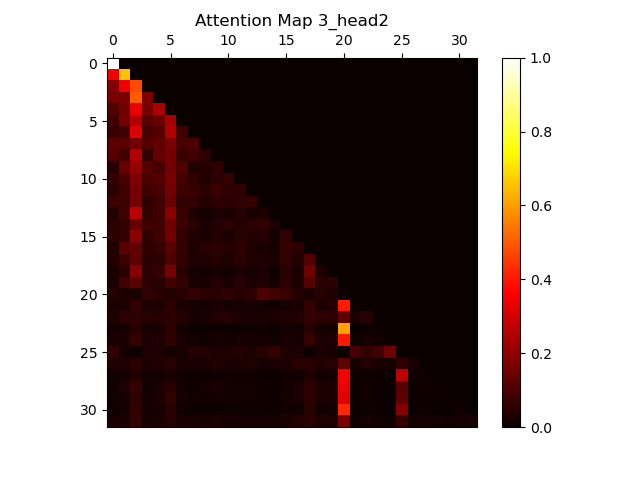
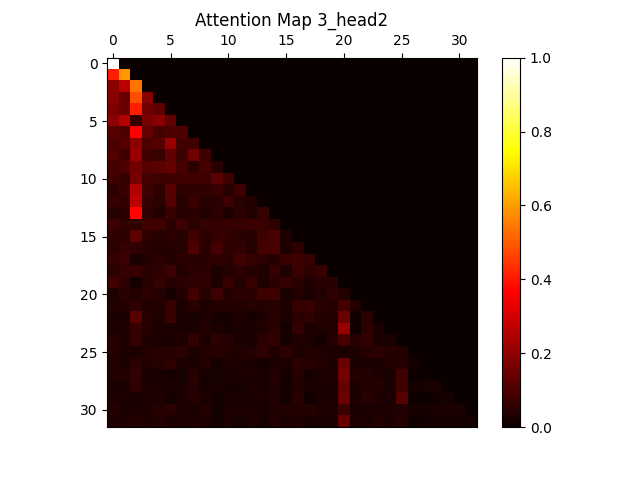
part 2 completed, needs AliBi

diff --git a/main.py b/main.py
@@ -156,6 +156,35 @@ def compute_perplexity(decoderLMmodel, data_loader, eval_iters=100):
     decoderLMmodel.train()
     return perplexity
 
+def compute_perplexity_dev(decoderLMmodel, data_loader, criterion, eval_iters=100):
+    """ Compute the perplexity of the decoderLMmodel on the data in data_loader.
+    """
+    decoderLMmodel.eval()
+    losses = []
+    
+    for i, (X, Y) in enumerate(data_loader):
+        if i >= eval_iters:  # Limit evaluation to a fixed number of iterations
+            break
+        
+        X, Y = X.to(device), Y.to(device)
+        trg_mask = create_target_mask(X)  # Create the target mask for the current batch
+        
+        # Forward pass through the model to get outputs
+        outputs = decoderLMmodel(X, trg_mask=trg_mask)  # Shape: (batch_size, seq_length, vocab_size)
+
+        # Reshape outputs and targets for calculating loss
+        loss = criterion(outputs.view(-1, outputs.size(-1)), Y.view(-1))
+        
+        # Append the loss for this batch to the list
+        losses.append(loss.item())
+    
+    # Calculate mean loss and perplexity
+    mean_loss = sum(losses) / len(losses)
+    perplexity = torch.exp(torch.tensor(mean_loss)).item()  # Calculate perplexity as exp(mean loss)
+
+    decoderLMmodel.train()  # Switch back to training mode
+    return perplexity
+
 def main(part):
 
     print("Loading data and creating tokenizer ...")
@@ -197,9 +226,28 @@ def main(part):
             lmtrainText = f.read()
         train_LM_dataset = LanguageModelingDataset(tokenizer, lmtrainText,  block_size)
         train_LM_loader = DataLoader(train_LM_dataset, batch_size=batch_size, shuffle=True)
+        
+        obamafile = "speechesdataset/test_LM_obama.txt"
+        with open(obamafile, 'r', encoding='utf-8') as f:
+            lmobamaText = f.read()
+        obama_LM_dataset = LanguageModelingDataset(tokenizer, lmobamaText, block_size)
+        obama_LM_loader = DataLoader(obama_LM_dataset, batch_size=batch_size, shuffle=True)
+
+        hbushfile = "speechesdataset/test_LM_hbush.txt"
+        with open(hbushfile, 'r', encoding='utf-8') as f:
+            lmhbushText = f.read()
+        hbush_LM_dataset = LanguageModelingDataset(tokenizer, lmhbushText, block_size)
+        hbush_LM_loader = DataLoader(hbush_LM_dataset, batch_size=batch_size, shuffle=True)
+
+        wbushfile = "speechesdataset/test_LM_wbush.txt"
+        with open(wbushfile, 'r', encoding='utf-8') as f:
+            lmwbushText = f.read()
+        wbush_LM_dataset = LanguageModelingDataset(tokenizer, lmwbushText, block_size)
+        wbush_LM_loader = DataLoader(wbush_LM_dataset, batch_size=batch_size, shuffle=True)
+
         vocab_size = tokenizer.vocab_size
         decoder = TransformerDecoder(vocab_size=vocab_size, embed_size=n_embd, num_layers=n_layer, num_heads=n_head, 
-                                     ff_hidden_dim=n_hidden, dropout=0.1, max_length=block_size).to(device)
+                                     ff_hidden_dim=n_hidden, dropout=0.04, max_length=block_size).to(device)
         optimizer = torch.optim.Adam(decoder.parameters(), lr=learning_rate)
         criterion = nn.CrossEntropyLoss()
         print("Starting decoder pretraining on language modeling task...")
@@ -230,8 +278,15 @@ def main(part):
             # Print training progress and evaluate perplexity at intervals
             if (i + 1) % eval_interval == 0 or i == max_iters - 1:
                 avg_loss = sum(train_losses[-eval_interval:]) / len(train_losses[-eval_interval:])
-                perplexity = torch.exp(torch.tensor(avg_loss))
-                print(f"Iteration {i + 1}/{max_iters} - Training Loss: {avg_loss:.4f} - Perplexity: {perplexity:.2f}")
+                current_loss = train_losses[-1]
+                perplexity = compute_perplexity_dev(decoder, train_LM_loader, criterion, eval_iters=eval_iters)
+                print(f"Iteration {i + 1}/{max_iters} - Training Loss: {current_loss:.4f} - Perplexity: {perplexity:.2f}")
+        final_perplexity = compute_perplexity_dev(decoder, train_LM_loader, criterion, eval_iters=eval_iters)
+        obama_perplexity = compute_perplexity_dev(decoder, obama_LM_loader, criterion, eval_iters=eval_iters)
+        hbush_perplexity = compute_perplexity_dev(decoder, hbush_LM_loader, criterion, eval_iters=eval_iters)
+        wbush_perplexity = compute_perplexity_dev(decoder, wbush_LM_loader, criterion, eval_iters=eval_iters)
+        print(f"Final Train Perplexity: {final_perplexity:.2f}")
+        print(f"At 500th iteration, Obama Perplexity: {obama_perplexity:.2f}, H. Bush Perplexity: {hbush_perplexity:.2f}, W. Bush Perplexity: {wbush_perplexity:.2f}")
         utilities = Utilities(tokenizer, decoder)
         sample_sentence = "This is a sample sentence to visualize attention maps, which is intentionally made around 32 words to see if the attention map works properly."
         utilities.sanity_check(sample_sentence, block_size=32, part1=False)

diff --git a/transformer.py b/transformer.py
@@ -164,18 +164,17 @@ class TransformerDecoderLayer(nn.Module):
     def forward(self, x, trg_mask, return_attention=False):
 
         if return_attention:
-            attention_out, attention = self.attention(x, x, x, trg_mask, return_attention=True)
-            query = self.dropout(self.norm1(attention_out + x))
-            forward = self.feed_forward(query)
-            out = self.dropout(self.norm2(forward + query))
-            return out, attention
+            attention_out, attention = self.attention(self.norm1(x), self.norm1(x), self.norm1(x), trg_mask, return_attention=True)
+            x = x + self.dropout(attention_out)
+            x = x + self.dropout(self.feed_forward(self.norm2(x)))
+            
+            return x, attention
 
         else:
-            attention = self.attention(x, x, x, trg_mask)
-            query = self.dropout(self.norm1(attention + x))
-            forward = self.feed_forward(query)
-            out = self.dropout(self.norm2(forward + query))
-            return out
+            attention_out = self.attention(self.norm1(x), self.norm1(x), self.norm1(x), trg_mask)
+            x = x + self.dropout(attention_out)
+            x = x + self.dropout(self.feed_forward(self.norm2(x)))
+            return x
 
 class TransformerDecoder(nn.Module):
     def __init__(self, vocab_size, embed_size, num_layers, num_heads, ff_hidden_dim, dropout, max_length):
@@ -188,11 +187,12 @@ class TransformerDecoder(nn.Module):
         self.fc_out = nn.Linear(embed_size, vocab_size)
         self.norm = nn.LayerNorm(embed_size)  # Additional normalization
         self.dropout = nn.Dropout(dropout)
+        self.embed_dim = embed_size
 
     def forward(self, x, trg_mask, return_attention=False):
         N, seq_length = x.shape
         positions = torch.arange(0, seq_length).expand(N, seq_length).to(x.device)
-        out = self.dropout(self.word_embedding(x) + self.position_embedding(positions))
+        out = self.dropout((self.word_embedding(x) + self.position_embedding(positions)))
         attention_maps = []
         
         for layer in self.layers:
@@ -208,3 +208,26 @@ class TransformerDecoder(nn.Module):
             return out, attention_maps
         else:
             return out
+        
+class AliBiBias(nn.Module):
+    def __init__(self, num_heads):
+        super(AliBiBias, self).__init__()
+        slopes = self._get_slopes(num_heads)
+        self.register_buffer('slopes', slopes)  # Register as buffer so it's persistent and moves to device with model
+
+    @staticmethod
+    def _get_slopes(num_heads):
+        def get_slopes_helper(n):
+            if n == 1:
+                return [1.]
+            else:
+                previous = get_slopes_helper(n // 2)
+                return previous + [2 * slope for slope in previous]
+        
+        slopes = get_slopes_helper(num_heads)
+        return torch.tensor(slopes, dtype=torch.float32).view(num_heads, 1, 1)  # Shape (num_heads, 1, 1)
+
+    def forward(self, seq_length):
+        position_ids = torch.arange(seq_length).unsqueeze(0) - torch.arange(seq_length).unsqueeze(1)
+        alibi = position_ids * self.slopes
+        return alibi
